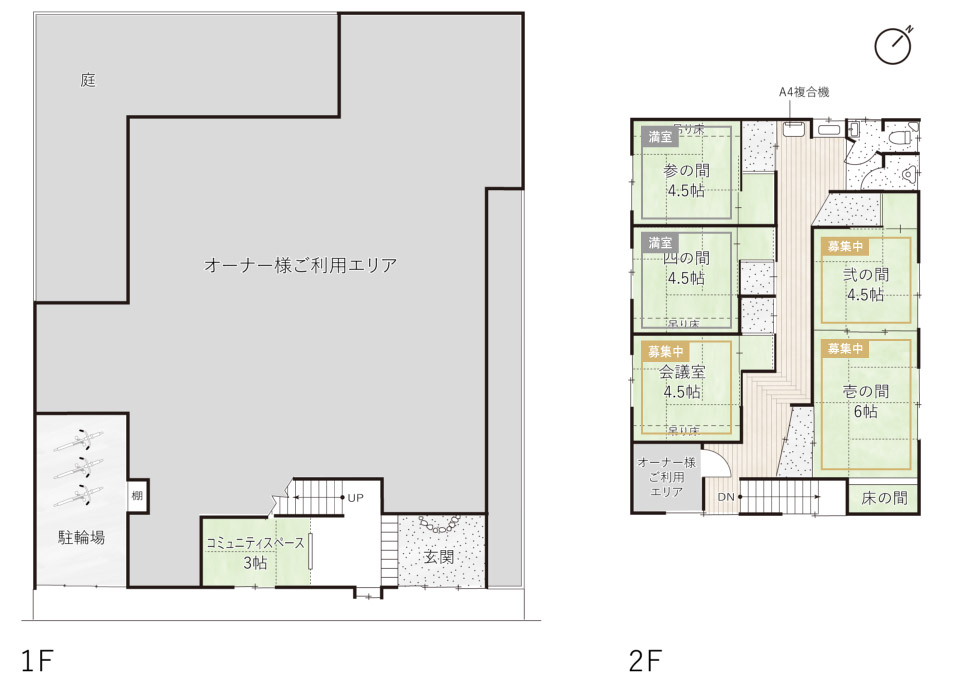
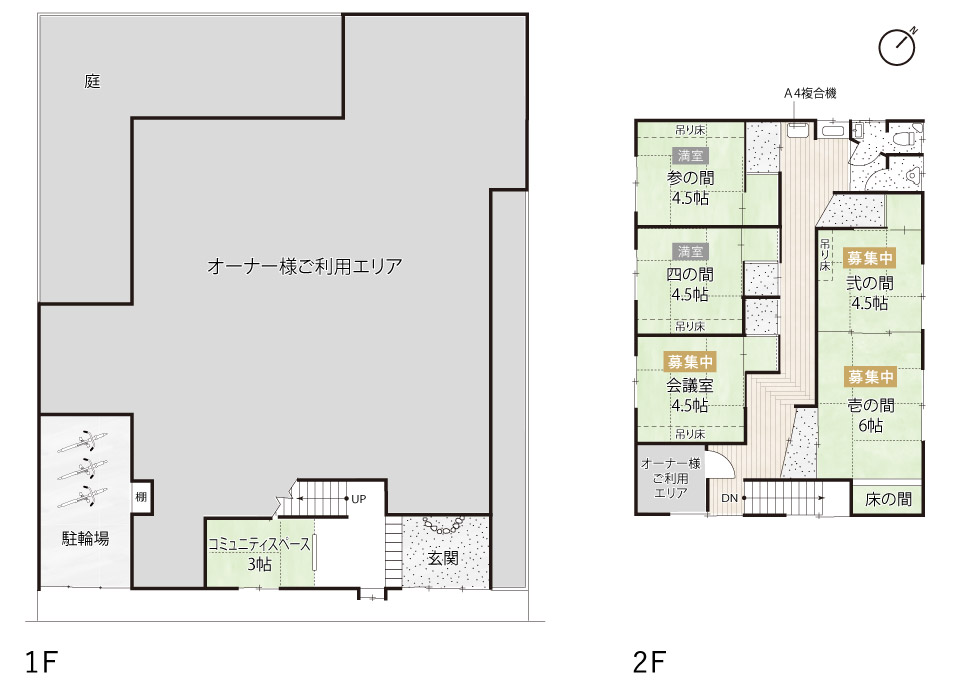
本池中更新

diff --git a/sass/lib/_header.scss b/sass/lib/_header.scss
@@ -14,7 +14,6 @@
   @media #{$mq-sm} {
     display: block;
     text-align: center;
-    padding: 12px 0;
     height: auto;
   }
 

diff --git a/page-office.php b/page-office.php
@@ -90,7 +90,7 @@ get_header(); ?>
   <div class="office-section-inner">
     <h2 class="office-section-title">Floor<span>フロア</span></h2>
 <img src="/wp-content/themes/unknownkyoto/img/office/plan2107.jpg" alt="UNKNOWN KYOTO 本池中　間取り図" style="width:100%">
-<p class="onlySP"><a href="/wp-content/themes/unknownkyoto/img/office/plan.png" target="honikenaka" rel="noopener noreferrer">新規ウインドウで拡大して表示する</a></p>
+<p class="onlySP"><a href="/wp-content/themes/unknownkyoto/img/office/plan2107.jpg" target="honikenaka" rel="noopener noreferrer">新規ウインドウで拡大して表示する</a></p>
 </div></section>
 
 <section id="office-plan" class="office-section bg">
